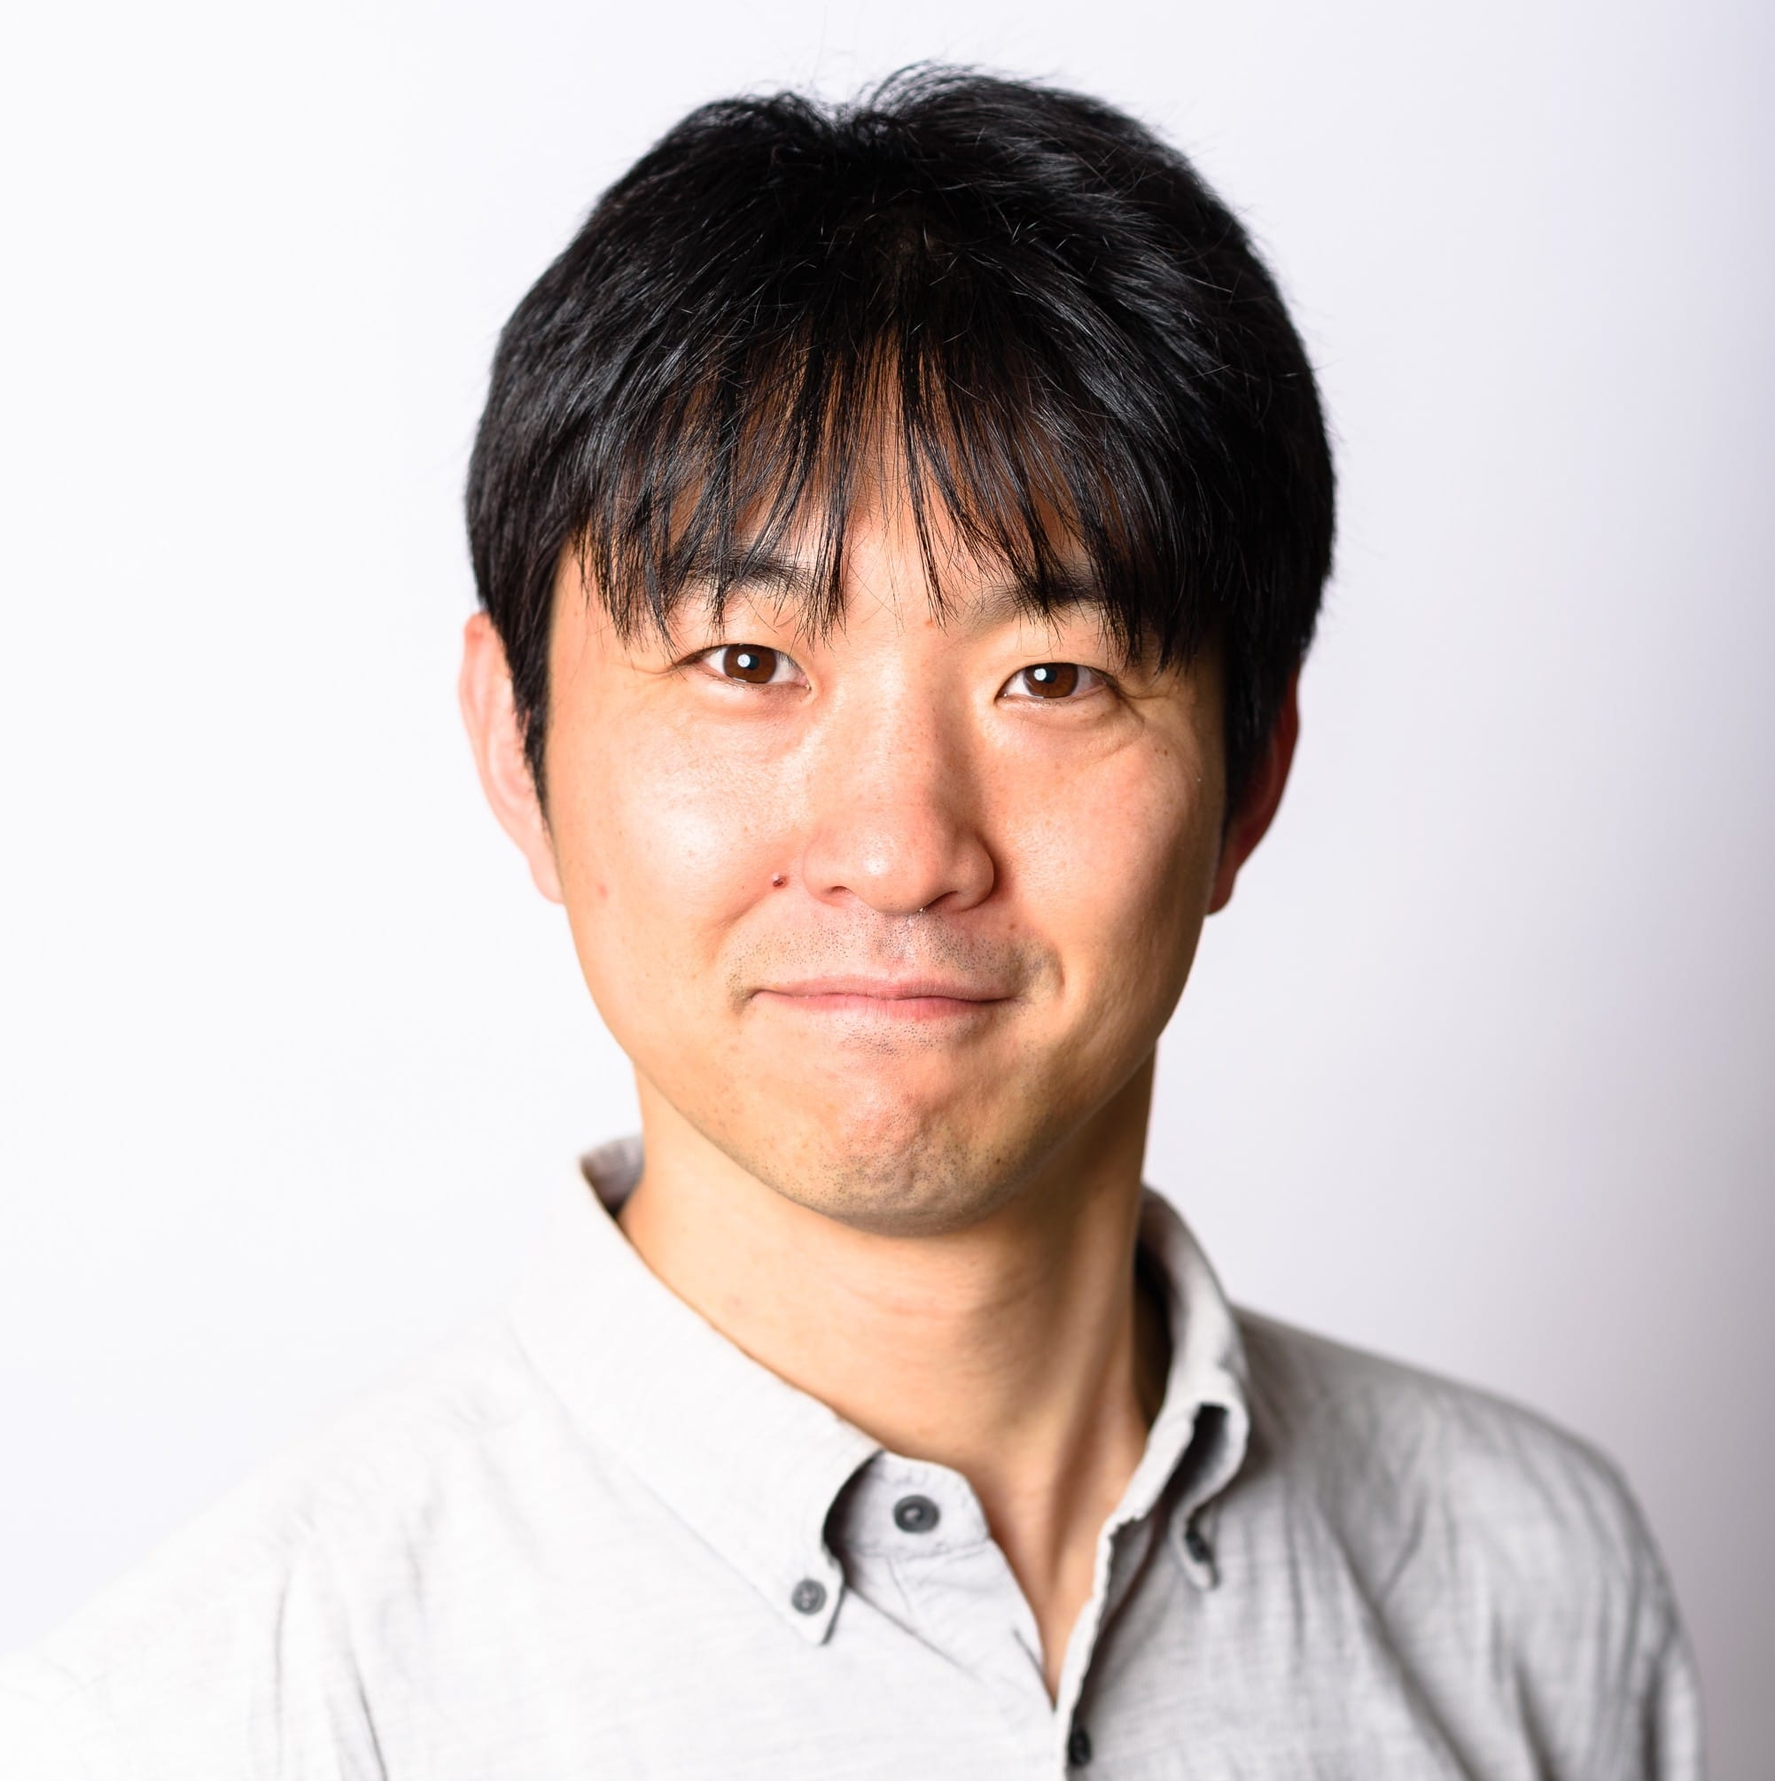
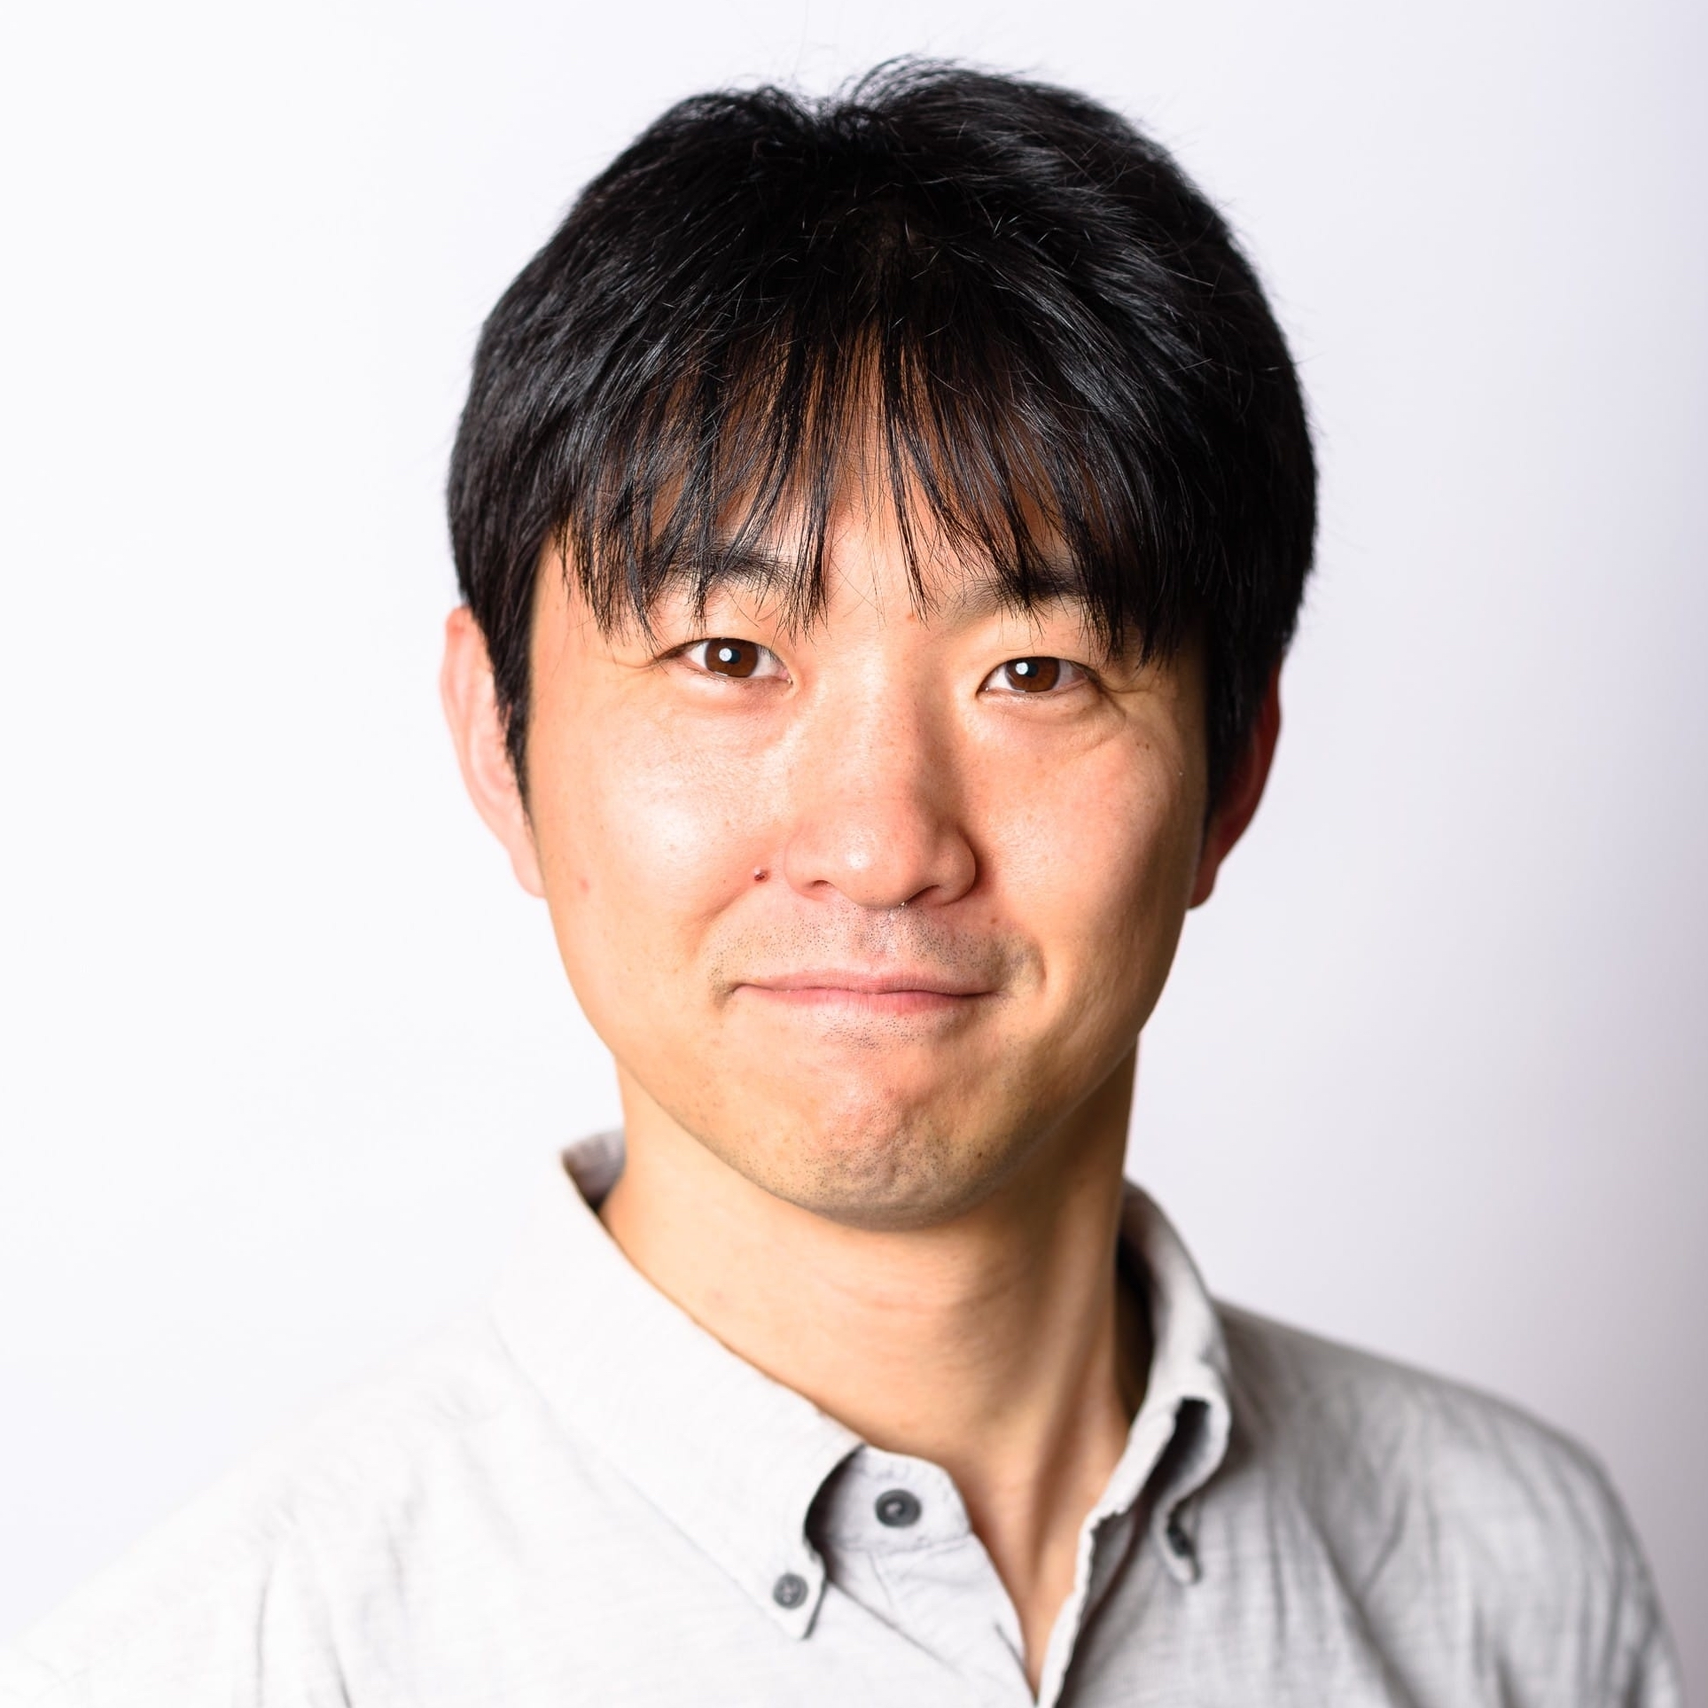
登壇者情報更新/Organizer情報更新/スタッフ募集文言削除

Changed region(s): [[0.2491, 0.0311, 0.9964, 1.0], [0.1868, 0.9652, 0.218, 1.0]]

diff --git a/noderedcon2020/index-en.html b/noderedcon2020/index-en.html
@@ -546,16 +546,19 @@
                           </div>
                           <div class="collapsed card-header" data-toggle="collapse" data-target="#collapseFive" aria-expanded="false" aria-controls="collapseFive">
                             <div class="images-box">
-                              <img class="img-fluid" src="assets/img/speaker/speaker-00.jpg" alt="">
+                              <img class="img-fluid" src="assets/img/speaker/saito.jpg" alt="">
                             </div>
-                            <h4>Case studies of Node-RED by hardware engineers</h4>
-                            <h5 class="name">Naotaka Saito, LAPIS Semiconductor</h5>
+                            <h4>Utilization of Node-RED by hardware manufactures</h4>
+                            <h5 class="name">Naotaka Saito, LAPIS Technology</h5>
                           </div>
                         </div>
                         <div id="collapseFive" class="collapse" aria-labelledby="headingFive" data-parent="#accordion">
                           <div class="card-body">
                             <p>
-                              TBD
+                              I developed IOT System with our LSI and the service is used by our customers. The system consists of cloud, gateway and sensor devices.<br>
+                              Sensor devices send signal to gateway by wireless. Gateway judge the sensor is authorized in system. When the sensor device is authorized, the data is sent to database in cloud. The sensors are registered on the cloud, and there is also a mechanism to synchronize between gateway and cloud immediately. This configuration is very popular in IoT System. The authorization process is not important for proto-typing, but it is required during operation. However, the system of node-red is too complex to realize IoT system quickly.<br>
+                              Basically we are semiconductor company. And our goal is that many companies use our LSI. Then I try to develop new node to combine core library from some nodes.<br>
+                              In my talk, I will show you the first complicated flow and the optimized flow that anyone can use.
                             </p>
                             <div class="location">
                               <span>Location:</span> Streaming URL coming soon
@@ -1413,6 +1416,30 @@
             <!-- Team Item Starts -->
             <div class="team-item wow fadeInUp" data-wow-delay="0.2s">
               <div class="team-img">
+                <img class="img-fluid" src="assets/img/speaker/saito.jpg" alt="">
+                <div class="team-overlay">
+                  <div class="overlay-social-icon text-center">
+                    <ul class="social-icons">
+                      <li><a target="_blank" href=""><i class="lni-twitter-filled" aria-hidden="true"></i></a></li>
+                      <li><a target="_blank" href="https://github.com/LAPIS-Lazurite"><i class="lni-github" aria-hidden="true"></i></a></li>
+                      <li><a target="_blank" href="https://www.facebook.com/naotaka.saito.1"><i class="lni-facebook-filled" aria-hidden="true"></i></a></li>
+                      <li><a target="_blank" href=""><i class="lni-linkedin" aria-hidden="true"></i></a></li>
+                    </ul>
+                  </div>
+                </div>
+              </div>
+              <div class="info-text">
+                <h3> <a target="_blank" href="">Naotaka Saito</a></h3>
+                <p>Telecommnunication LSI development team, LAPIS Technology</p>
+              </div>
+            </div>
+            <!-- Team Item Ends -->
+          </div>
+
+          <div class="col-lg-3 col-md-6 col-xs-12">
+            <!-- Team Item Starts -->
+            <div class="team-item wow fadeInUp" data-wow-delay="0.2s">
+              <div class="team-img">
                 <img class="img-fluid" src="assets/img/organizer/atsushi.jpg" alt="">
                 <div class="team-overlay">
                   <div class="overlay-social-icon text-center">
@@ -1691,7 +1718,7 @@
               </div>
               <div class="info-text">
                 <h3> <a target="_blank" href="https://joeartsea.com">Atsushi Kojo</a></h3>
-                <p>CTO, Uhuru</p>
+                <p>CTO, Uhuru<br>&nbsp;</p>
               </div>
             </div>
             <!-- Team Item Ends -->
@@ -1715,7 +1742,7 @@
               </div>
               <div class="info-text">
                 <h3> <a target="_blank" href="#">Seigo Tanaka</a></h3>
-                <p>CEO, 1ft Seabass</p>
+                <p>CEO, 1ft Seabass<br>&nbsp;</p>
               </div>
             </div>
             <!-- Team Item Ends -->
@@ -1739,7 +1766,7 @@
               </div>
               <div class="info-text">
                 <h3> <a target="_blank" href="#">Kazuhito Yokoi</a></h3>
-                <p>Engineer, Hitachi, Ltd.</p>
+                <p>Engineer, Hitachi, Ltd.<br>&nbsp;</p>
               </div>
             </div>
             <!-- Team Item Ends -->
@@ -1763,7 +1790,7 @@
               </div>
               <div class="info-text">
                 <h3> <a target="_blank" href="#">Kazumi Ohira</a></h3>
-                <p>Software Engineer, Freelance</p>
+                <p>Software Engineer, Freelance<br>&nbsp;</p>
               </div>
             </div>
             <!-- Team Item Ends -->
@@ -1787,7 +1814,7 @@
               </div>
               <div class="info-text">
                 <h3> <a target="_blank" href="#">Kazutoshi Uetsuhara</a></h3>
-                <p>Software Engineer, Studio BROS</p>
+                <p>Software Engineer, Studio BROS<br>&nbsp;</p>
               </div>
             </div>
             <!-- Team Item Ends -->
@@ -1811,7 +1838,7 @@
               </div>
               <div class="info-text">
                 <h3> <a target="_blank" href="#">Rina Nagai</a></h3>
-                <p>IT Engineer</p>
+                <p>IT Engineer<br>&nbsp;</p>
               </div>
             </div>
             <!-- Team Item Ends -->
@@ -1835,7 +1862,7 @@
               </div>
               <div class="info-text">
                 <h3> <a target="_blank" href="#">Taiji Hagino</a></h3>
-                <p>Sr. Developer Advocate, IBM</p>
+                <p>Sr. Developer Advocate, IBM<br>&nbsp;</p>
               </div>
             </div>
             <!-- Team Item Ends -->
@@ -1859,7 +1886,31 @@
               </div>
               <div class="info-text">
                 <h3> <a target="_blank" href="#">Shirai Kazuma</a></h3>
-                <p>Researcher, Phone Appli</p>
+                <p>Researcher, Phone Appli<br>&nbsp;</p>
+              </div>
+            </div>
+            <!-- Team Item Ends -->
+          </div>
+
+          <div class="col-lg-3 col-md-6 col-xs-12">
+            <!-- Team Item Starts -->
+            <div class="team-item wow fadeInUp" data-wow-delay="1.2s">
+              <div class="team-img">
+                <img class="img-fluid" src="assets/img/organizer/tatsuya.jpg" alt="">
+                <div class="team-overlay">
+                  <div class="overlay-social-icon text-center">
+                    <ul class="social-icons">
+                      <li><a target="_blank" href="https://twitter.com/kobanyn"><i class="lni-twitter-filled" aria-hidden="true"></i></a></li>
+                      <li><a target="_blank" href=""><i class="lni-github" aria-hidden="true"></i></a></li>
+                      <li><a target="_blank" href="https://www.facebook.com/tatuya.kobayashi.9"><i class="lni-facebook-filled" aria-hidden="true"></i></a></li>
+                      <li><a target="_blank" href=""><i class="lni-linkedin" aria-hidden="true"></i></a></li>
+                    </ul>
+                  </div>
+                </div>
+              </div>
+              <div class="info-text">
+                <h3> <a target="_blank" href="#">Kobayashi Tatsuya</a></h3>
+                <p>Section director, Japan System Laboratory</p>
               </div>
             </div>
             <!-- Team Item Ends -->

diff --git a/noderedcon2020/index.html b/noderedcon2020/index.html
@@ -545,10 +545,10 @@
                           </div>
                           <div class="collapsed card-header" data-toggle="collapse" data-target="#collapseFive" aria-expanded="false" aria-controls="collapseFive">
                             <div class="images-box">
-                              <img class="img-fluid" src="assets/img/speaker/speaker-00.jpg" alt="">
+                              <img class="img-fluid" src="assets/img/speaker/saito.jpg" alt="">
                             </div>
                             <h4>ハードウエア技術者によるNode-REDの活用事例</h4>
-                            <h5 class="name">斎藤 直孝, ラピスセミコンダクタ株式会社</h5>
+                            <h5 class="name">齊藤 直孝, ラピステクノロジー株式会社</h5>
                           </div>
                         </div>
                         <div id="collapseFive" class="collapse" aria-labelledby="headingFive" data-parent="#accordion">
@@ -1418,6 +1418,30 @@
             <!-- Team Item Starts -->
             <div class="team-item wow fadeInUp" data-wow-delay="0.2s">
               <div class="team-img">
+                <img class="img-fluid" src="assets/img/speaker/saito.jpg" alt="">
+                <div class="team-overlay">
+                  <div class="overlay-social-icon text-center">
+                    <ul class="social-icons">
+                      <li><a target="_blank" href=""><i class="lni-twitter-filled" aria-hidden="true"></i></a></li>
+                      <li><a target="_blank" href="https://github.com/LAPIS-Lazurite"><i class="lni-github" aria-hidden="true"></i></a></li>
+                      <li><a target="_blank" href="https://www.facebook.com/naotaka.saito.1"><i class="lni-facebook-filled" aria-hidden="true"></i></a></li>
+                      <li><a target="_blank" href=""><i class="lni-linkedin" aria-hidden="true"></i></a></li>
+                    </ul>
+                  </div>
+                </div>
+              </div>
+              <div class="info-text">
+                <h3> <a target="_blank" href="">齊藤 直孝</a></h3>
+                <p>通信LSI開発チーム, ラピステクノロジー株式会社<br>&nbsp;</p>
+              </div>
+            </div>
+            <!-- Team Item Ends -->
+          </div>
+
+          <div class="col-lg-3 col-md-6 col-xs-12">
+            <!-- Team Item Starts -->
+            <div class="team-item wow fadeInUp" data-wow-delay="0.2s">
+              <div class="team-img">
                 <img class="img-fluid" src="assets/img/speaker/atsushi.jpg" alt="">
                 <div class="team-overlay">
                   <div class="overlay-social-icon text-center">
@@ -1671,7 +1695,7 @@
           <div class="col-12">
             <div class="section-title-header text-center">
               <h2 class="section-title wow fadeInUp" data-wow-delay="0.2s">Organizer</h2>
-              <p class="wow fadeInDown" data-wow-delay="0.2s">They are behind the conference!<br>本イベントはNode-RED UG Japan運営メンバー及びボランティアスタッフにより運営しております。<br>ボランティアスタッフとしての参加をご希望の方は<a target="_blank" href="https://forms.gle/PPzJ8u1R4Ya8WsYK7">こちら</a>からご応募下さい。</p>
+              <p class="wow fadeInDown" data-wow-delay="0.2s">They are behind the conference!<br>本イベントはNode-RED UG Japan運営メンバー及びボランティアスタッフにより運営しております。</p>
             </div>
           </div>
         </div>
@@ -1694,7 +1718,7 @@
               </div>
               <div class="info-text">
                 <h3> <a target="_blank" href="https://joeartsea.com">Atsushi Kojo</a></h3>
-                <p>CTO, uhuru</p>
+                <p>CTO, Uhuru<br>&nbsp;</p>
               </div>
             </div>
             <!-- Team Item Ends -->
@@ -1717,7 +1741,7 @@
               </div>
               <div class="info-text">
                 <h3> <a target="_blank" href="#">Seigo Tanaka</a></h3>
-                <p>CEO, 1ft Seabass</p>
+                <p>CEO, 1ft Seabass<br>&nbsp;</p>
               </div>
             </div>
             <!-- Team Item Ends -->
@@ -1741,7 +1765,7 @@
               </div>
               <div class="info-text">
                 <h3> <a target="_blank" href="#">Kazuhito Yokoi</a></h3>
-                <p>Engineer, Hitachi, Ltd.</p>
+                <p>Engineer, Hitachi, Ltd.<br>&nbsp;</p>
               </div>
             </div>
             <!-- Team Item Ends -->
@@ -1765,7 +1789,7 @@
               </div>
               <div class="info-text">
                 <h3> <a target="_blank" href="#">Kazumi Ohira</a></h3>
-                <p>Software Engineer, Freelance</p>
+                <p>Software Engineer, Freelance<br>&nbsp;</p>
               </div>
             </div>
             <!-- Team Item Ends -->
@@ -1789,7 +1813,7 @@
               </div>
               <div class="info-text">
                 <h3> <a target="_blank" href="#">Kazutoshi Uetsuhara</a></h3>
-                <p>Software Engineer, Studio BROS</p>
+                <p>Software Engineer, Studio BROS<br>&nbsp;</p>
               </div>
             </div>
             <!-- Team Item Ends -->
@@ -1812,7 +1836,7 @@
                 </div>
               </div>
               <div class="info-text">
-                <h3> <a target="_blank" href="#">Rina Nagai</a></h3>
+                <h3> <a target="_blank" href="#">Rina Nagai<br>&nbsp;</a></h3>
                 <p>IT Engineer</p>
               </div>
             </div>
@@ -1837,7 +1861,7 @@
               </div>
               <div class="info-text">
                 <h3> <a target="_blank" href="#">Taiji Hagino</a></h3>
-                <p>Sr. Developer Advocate, IBM</p>
+                <p>Sr. Developer Advocate, IBM<br>&nbsp;</p>
               </div>
             </div>
             <!-- Team Item Ends -->
@@ -1861,7 +1885,31 @@
               </div>
               <div class="info-text">
                 <h3> <a target="_blank" href="#">Shirai Kazuma</a></h3>
-                <p>Researcher, Phone Appli</p>
+                <p>Researcher, Phone Appli<br>&nbsp;</p>
+              </div>
+            </div>
+            <!-- Team Item Ends -->
+          </div>
+
+          <div class="col-lg-3 col-md-6 col-xs-12">
+            <!-- Team Item Starts -->
+            <div class="team-item wow fadeInUp" data-wow-delay="1.2s">
+              <div class="team-img">
+                <img class="img-fluid" src="assets/img/organizer/tatsuya.jpg" alt="">
+                <div class="team-overlay">
+                  <div class="overlay-social-icon text-center">
+                    <ul class="social-icons">
+                      <li><a target="_blank" href="https://twitter.com/kobanyn"><i class="lni-twitter-filled" aria-hidden="true"></i></a></li>
+                      <li><a target="_blank" href=""><i class="lni-github" aria-hidden="true"></i></a></li>
+                      <li><a target="_blank" href="https://www.facebook.com/tatuya.kobayashi.9"><i class="lni-facebook-filled" aria-hidden="true"></i></a></li>
+                      <li><a target="_blank" href=""><i class="lni-linkedin" aria-hidden="true"></i></a></li>
+                    </ul>
+                  </div>
+                </div>
+              </div>
+              <div class="info-text">
+                <h3> <a target="_blank" href="#">Kobayashi Tatsuya</a></h3>
+                <p>Section director, Japan System Laboratory</p>
               </div>
             </div>
             <!-- Team Item Ends -->
